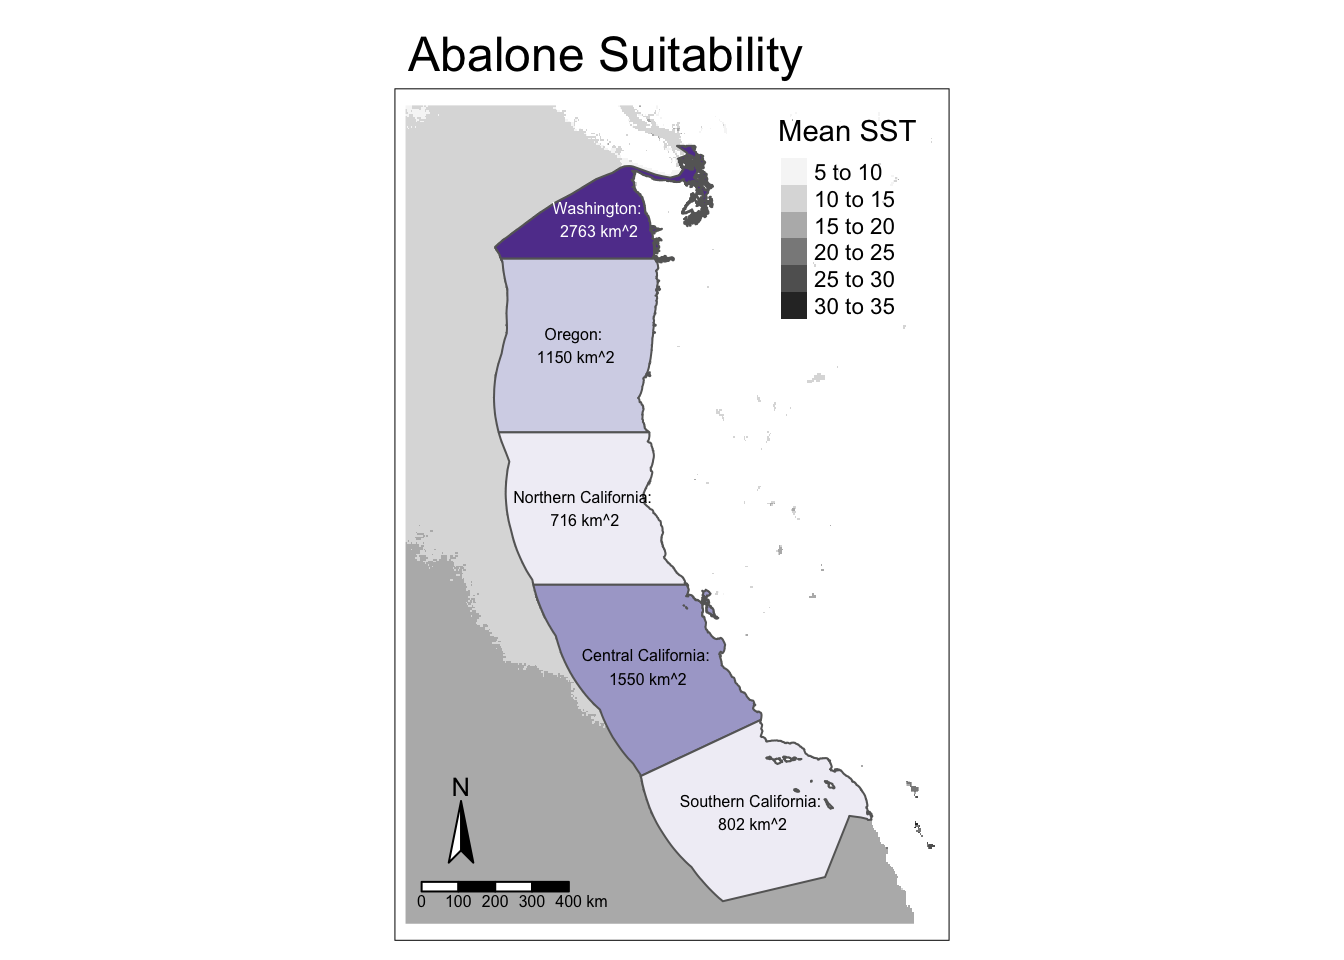
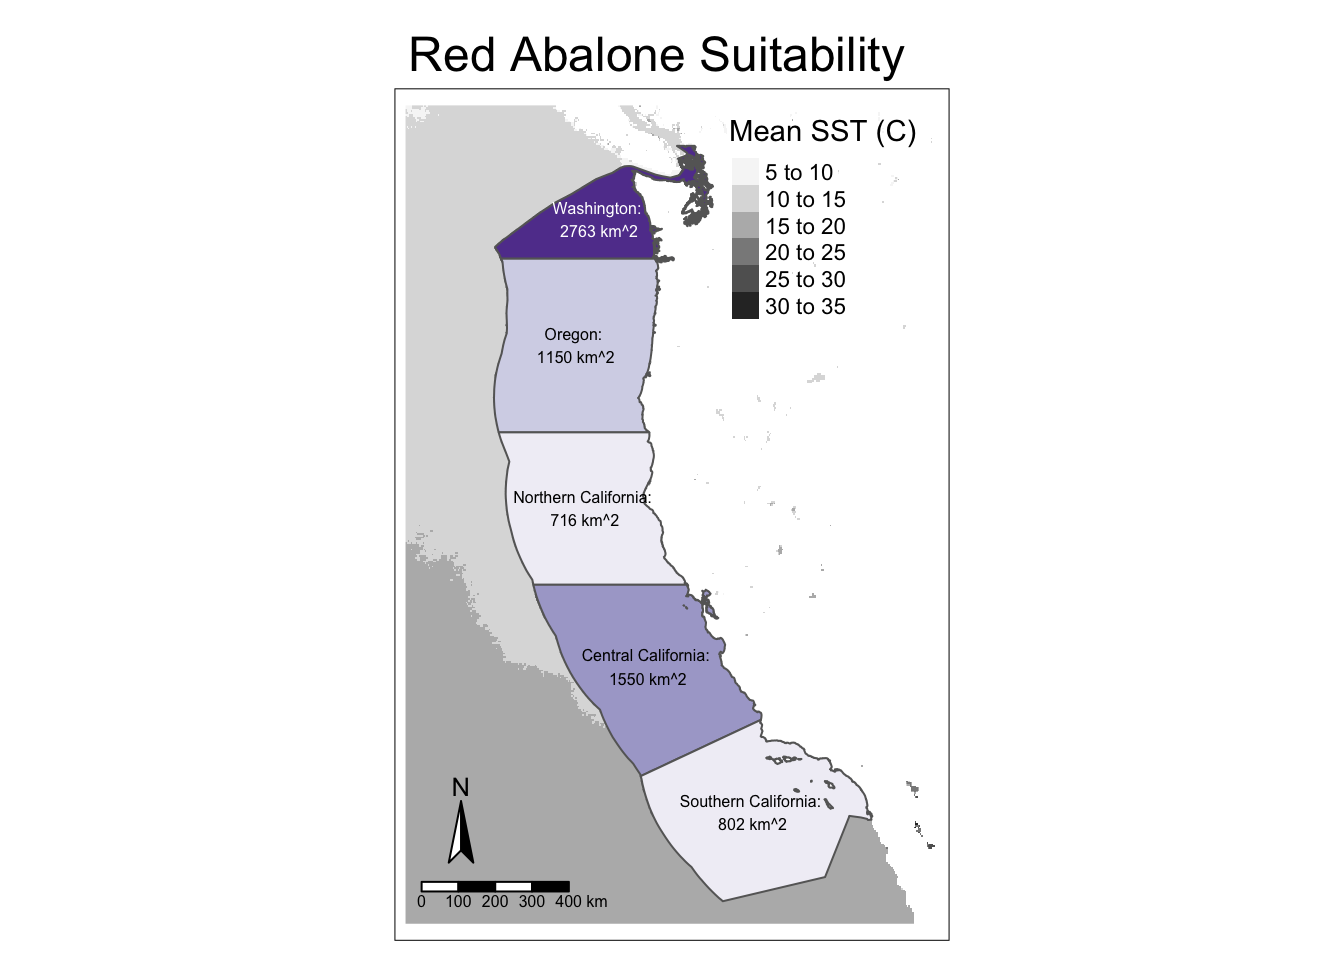
Add data sources.

Changed region(s): [[0.5312, 0.125, 0.6875, 0.3438], [0.2812, 0.0312, 0.6875, 0.0938]]

diff --git a/functions.html b/functions.html
@@ -81,9 +81,10 @@ pre > code.sourceCode > span > a:first-child::before { text-decoration: underlin
     <h2 id="toc-title">Table of contents</h2>
    
   <ul>
-  <li><a href="#import-packages" id="toc-import-packages" class="nav-link active" data-scroll-target="#import-packages">Import packages:</a></li>
+  <li><a href="#import-packages" id="toc-import-packages" class="nav-link active" data-scroll-target="#import-packages">Import packages</a></li>
   <li><a href="#read-in-data" id="toc-read-in-data" class="nav-link" data-scroll-target="#read-in-data">Read in data</a></li>
   <li><a href="#suitability-function" id="toc-suitability-function" class="nav-link" data-scroll-target="#suitability-function">Suitability Function:</a></li>
+  <li><a href="#data-sources" id="toc-data-sources" class="nav-link" data-scroll-target="#data-sources">Data Sources</a></li>
   </ul>
 </nav>
 </div>
@@ -122,7 +123,7 @@ pre > code.sourceCode > span > a:first-child::before { text-decoration: underlin
 
 
 <section id="import-packages" class="level2">
-<h2 class="anchored" data-anchor-id="import-packages">Import packages:</h2>
+<h2 class="anchored" data-anchor-id="import-packages">Import packages</h2>
 <div class="cell">
 <details class="code-fold">
 <summary>Expand code</summary>
@@ -188,7 +189,7 @@ pre > code.sourceCode > span > a:first-child::before { text-decoration: underlin
 </section>
 <section id="suitability-function" class="level2">
 <h2 class="anchored" data-anchor-id="suitability-function">Suitability Function:</h2>
-<p>The function <code>suitability()</code> takes the following arguments:</p>
+<p>The function <code>suitability(species_name, min_temp, max_temp, min_depth, max_depth)</code> takes the following arguments:</p>
 <ul>
 <li><p>species_name: the name of the species as a string</p></li>
 <li><p>min_temp: minimum sea surface temperature (degrees Celsius)</p></li>
@@ -196,7 +197,7 @@ pre > code.sourceCode > span > a:first-child::before { text-decoration: underlin
 <li><p>min_depth: the absolute value of the shallowest depth (meters)</p></li>
 <li><p>max_depth: the absolute value of the deepest depth (meters)</p></li>
 </ul>
-<p>It produces a map of EEZ regions colored by amount of area associated with suitable growing conditions for the species of interest.</p>
+<p>It produces a map of West Coast EEZ regions colored by amount of area associated with suitable growing conditions for the species of interest.</p>
 <div class="cell">
 <details class="code-fold">
 <summary>Code</summary>
@@ -265,7 +266,7 @@ pre > code.sourceCode > span > a:first-child::before { text-decoration: underlin
 <span id="cb3-63"><a href="#cb3-63" aria-hidden="true" tabindex="-1"></a>  <span class="co"># Map suitable region</span></span>
 <span id="cb3-64"><a href="#cb3-64" aria-hidden="true" tabindex="-1"></a>  suitability_map <span class="ot">&lt;-</span> <span class="fu">tm_shape</span>(avg_sst) <span class="sc">+</span></span>
 <span id="cb3-65"><a href="#cb3-65" aria-hidden="true" tabindex="-1"></a>    <span class="fu">tm_raster</span>(<span class="at">palette =</span> <span class="st">"Greys"</span>,</span>
-<span id="cb3-66"><a href="#cb3-66" aria-hidden="true" tabindex="-1"></a>            <span class="at">title =</span> <span class="st">"Mean SST"</span>) <span class="sc">+</span></span>
+<span id="cb3-66"><a href="#cb3-66" aria-hidden="true" tabindex="-1"></a>            <span class="at">title =</span> <span class="st">"Mean SST (C)"</span>) <span class="sc">+</span></span>
 <span id="cb3-67"><a href="#cb3-67" aria-hidden="true" tabindex="-1"></a>  <span class="fu">tm_shape</span>(map_df) <span class="sc">+</span></span>
 <span id="cb3-68"><a href="#cb3-68" aria-hidden="true" tabindex="-1"></a>    <span class="fu">tm_polygons</span>(<span class="at">title =</span> <span class="st">"EEZ Region"</span>,</span>
 <span id="cb3-69"><a href="#cb3-69" aria-hidden="true" tabindex="-1"></a>              <span class="at">col =</span> <span class="st">'area_rounded'</span>,</span>
@@ -296,7 +297,7 @@ pre > code.sourceCode > span > a:first-child::before { text-decoration: underlin
 </div>
 <details class="code-fold">
 <summary>Code</summary>
-<div class="sourceCode cell-code" id="cb4"><pre class="sourceCode r code-with-copy"><code class="sourceCode r"><span id="cb4-1"><a href="#cb4-1" aria-hidden="true" tabindex="-1"></a><span class="fu">suitability</span>(<span class="st">"Abalone"</span>, <span class="dv">8</span>, <span class="dv">18</span>, <span class="dv">0</span>, <span class="dv">24</span>) </span></code><button title="Copy to Clipboard" class="code-copy-button"><i class="bi"></i></button></pre></div>
+<div class="sourceCode cell-code" id="cb4"><pre class="sourceCode r code-with-copy"><code class="sourceCode r"><span id="cb4-1"><a href="#cb4-1" aria-hidden="true" tabindex="-1"></a><span class="fu">suitability</span>(<span class="st">"Red Abalone"</span>, <span class="dv">8</span>, <span class="dv">18</span>, <span class="dv">0</span>, <span class="dv">24</span>) </span></code><button title="Copy to Clipboard" class="code-copy-button"><i class="bi"></i></button></pre></div>
 </details>
 <div class="cell-output-display">
 <div>
@@ -306,6 +307,51 @@ pre > code.sourceCode > span > a:first-child::before { text-decoration: underlin
 </div>
 </div>
 </div>
+</section>
+<section id="data-sources" class="level2">
+<h2 class="anchored" data-anchor-id="data-sources">Data Sources</h2>
+<table class="caption-top table">
+<colgroup>
+<col style="width: 25%">
+<col style="width: 25%">
+<col style="width: 25%">
+<col style="width: 25%">
+</colgroup>
+<thead>
+<tr class="header">
+<th>Data</th>
+<th>Citation</th>
+<th>Link</th>
+<th></th>
+</tr>
+</thead>
+<tbody>
+<tr class="odd">
+<td>Species Requirements for Red Abalone</td>
+<td>Bisby, F.A., M.A.&nbsp;Ruggiero, K.L. Wilson, M. Cachuela-Palacio, S.W. Kimani, Y.R. Roskov, A. Soulier-Perkins and J. van Hertum. 2005. (via SeaLifeBase)</td>
+<td>https://www.sealifebase.ca/summary/Haliotis-rufescens.html</td>
+<td></td>
+</tr>
+<tr class="even">
+<td>Sea Surface Temperature Data</td>
+<td>NOAA Coral Reef Watch. 2018, updated daily. Daily Global 5km Satellite Sea Surface Temperature Anomaly (Version 3.1, released August 1, 2018). College Park, Maryland, USA: NOAA Coral Reef Watch</td>
+<td>https://coralreefwatch.noaa.gov/product/vs/data.php</td>
+<td></td>
+</tr>
+<tr class="odd">
+<td>Bathymetry Data</td>
+<td>GEBCO Compilation Group (2024) GEBCO 2024 Grid (doi:10.5285/1c44ce99-0a0d-5f4f-e063-7086abc0ea0f)</td>
+<td>https://www.gebco.net/data_and_products/gridded_bathymetry_data/#area</td>
+<td></td>
+</tr>
+<tr class="even">
+<td>EEZ Boundary</td>
+<td>MarineRegions. nd. EEZ Boundaries.</td>
+<td>https://www.marineregions.org/eez.php</td>
+<td></td>
+</tr>
+</tbody>
+</table>
 </section>
 
 </main>
